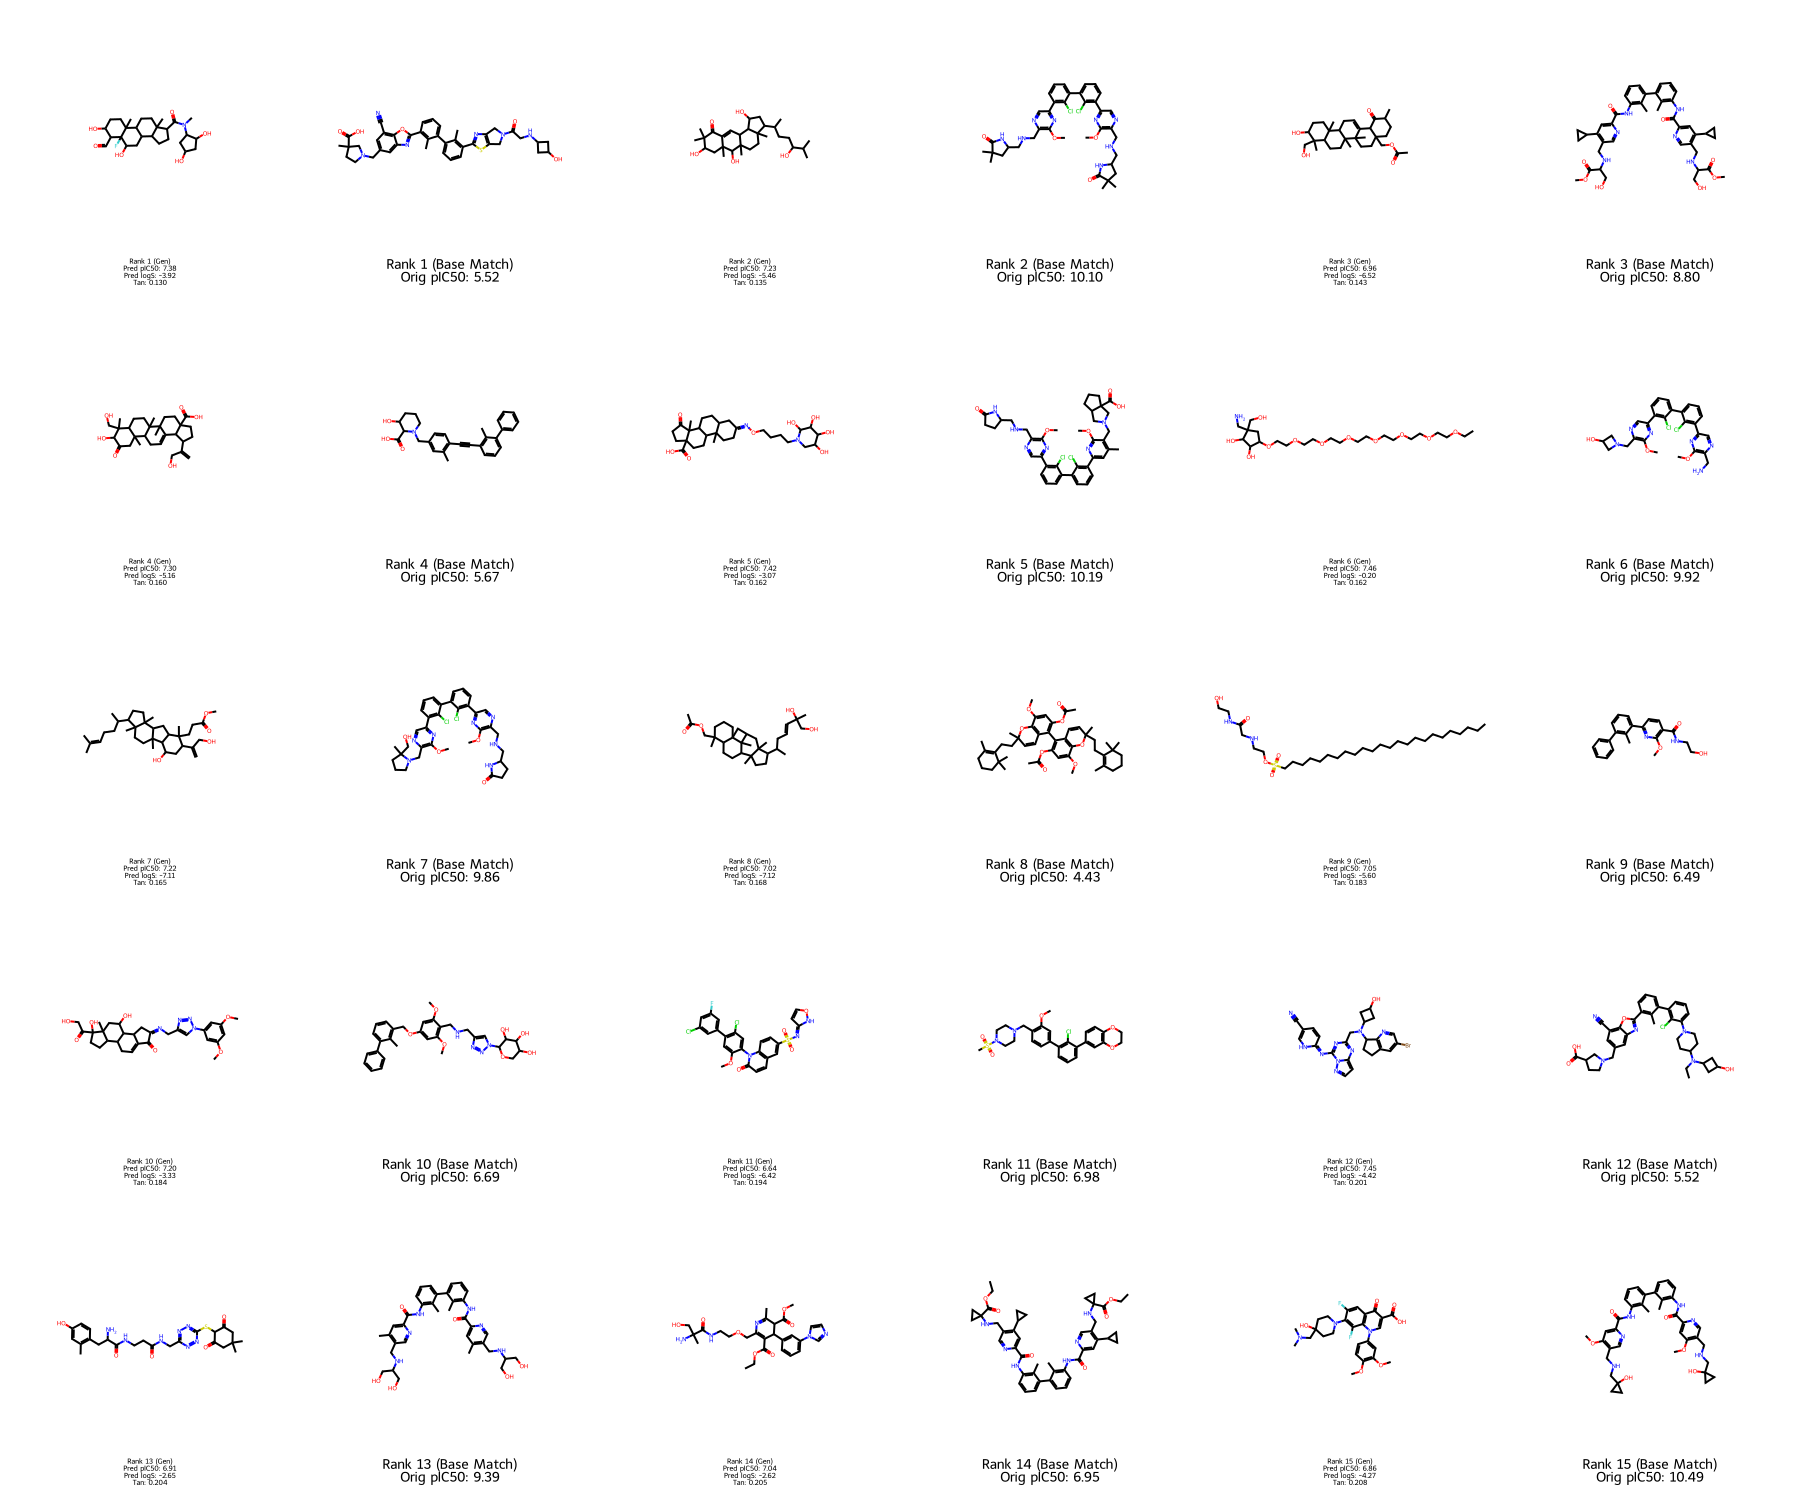
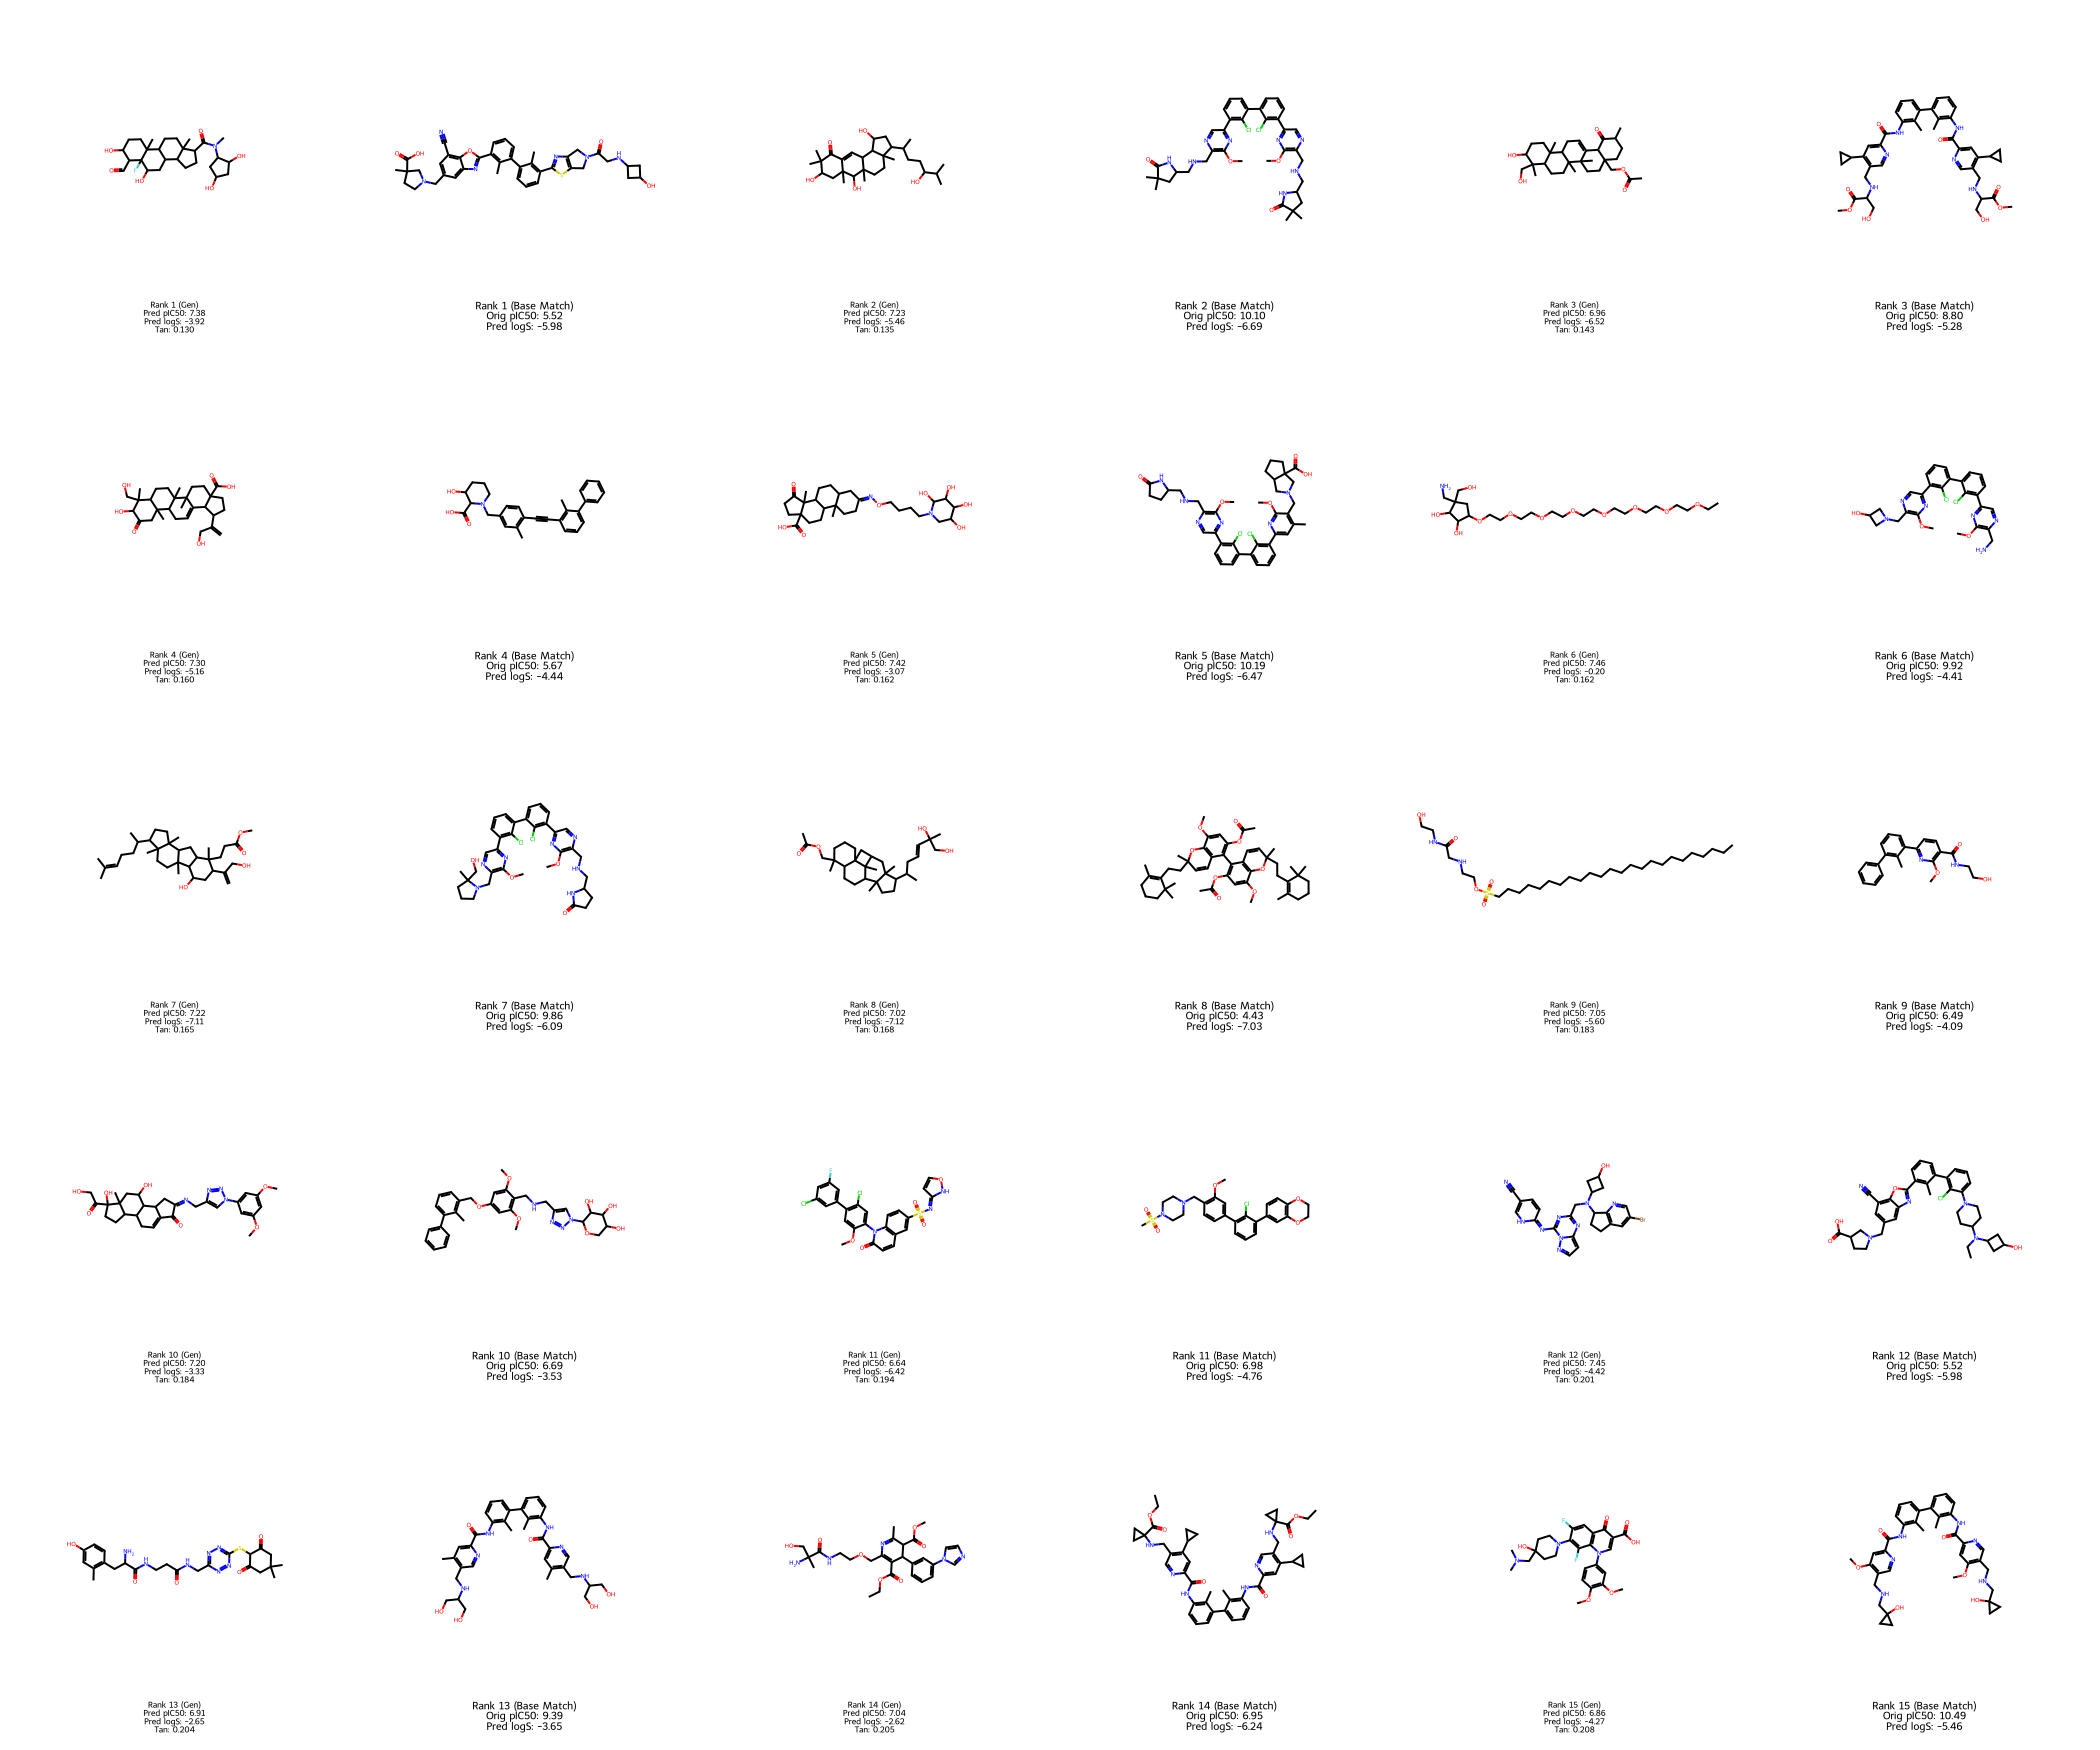
Update pair grids with larger legend font size and add predicted baseline solubilities to all 5 pair runs

diff --git a/Navneet_Git/get_top15_pairs.py b/Navneet_Git/get_top15_pairs.py
@@ -1,16 +1,29 @@
 import os
+import sys
 import pandas as pd
 import numpy as np
+import xgboost as xgb
 from rdkit import Chem, DataStructs
 from rdkit.Chem import AllChem, Draw
+
+# Load REINVENT features plugin
+sys.path.append('REINVENT4')
+from reinvent_plugins.components.pd1_pdl1_features import compute_features
 
 def main():
     repo = "/Users/vishnukasturi/Intern/reinvent-local"
     baseline_path = f"{repo}/Preprocess/Data_pd1_pdl1/pd1_pdl1_pic50_raw.csv"
+    sol_model_path = f"{repo}/Preprocess/final_acc/pd1_pdl1_sol_final_acc_model.ubj"
+    sol_scaler_path = f"{repo}/Preprocess/final_acc/pd1_pdl1_sol_final_acc_scaler.pkl"
     
     print("[*] Loading baseline dataset...")
     df_base = pd.read_csv(baseline_path, sep='\t')
     df_base = df_base.dropna(subset=['SMILES'])
+    
+    # Load solubility predictor model
+    print("[*] Loading solubility model...")
+    bst_sol = xgb.Booster()
+    bst_sol.load_model(sol_model_path)
     
     base_mols = []
     base_fps = []
@@ -51,6 +64,35 @@ def main():
         print(f"\n[*] Processing top 15 dataset: {d['name']}")
         df = pd.read_csv(d['csv_path'])
         
+        # Determine baseline matches first
+        base_matched_smiles = []
+        for idx, (_, row) in enumerate(df.iterrows()):
+            gen_smi = row['canonical_smiles']
+            gen_m = Chem.MolFromSmiles(gen_smi)
+            if gen_m:
+                gen_fp = AllChem.GetMorganFingerprintAsBitVect(gen_m, 2, 2048)
+                sims = DataStructs.BulkTanimotoSimilarity(gen_fp, base_fps)
+                max_idx = np.argmax(sims)
+                base_matched_smiles.append(base_smiles[max_idx])
+            else:
+                base_matched_smiles.append("")
+                
+        # Predict solubility for matched baseline SMILES
+        valid_base_smiles = [s for s in base_matched_smiles if s != ""]
+        base_sols = {}
+        if valid_base_smiles:
+            X_s, m_s = compute_features(valid_base_smiles, sol_scaler_path)
+            preds_s = bst_sol.predict(xgb.DMatrix(X_s))
+            pred_idx = 0
+            for s in base_matched_smiles:
+                if s == "":
+                    continue
+                if m_s[pred_idx]:
+                    base_sols[s] = float(preds_s[pred_idx])
+                else:
+                    base_sols[s] = np.nan
+                pred_idx += 1
+
         pair_mols = []
         pair_legends = []
         pair_data = []
@@ -68,9 +110,10 @@ def main():
             max_idx = np.argmax(sims)
             max_tan = sims[max_idx]
             
-            base_smi = base_smiles[max_idx]
+            base_smi = base_matched_smiles[idx]
             base_m = Chem.MolFromSmiles(base_smi)
             base_pic50 = base_pic50s[max_idx]
+            base_sol = base_sols.get(base_smi, np.nan)
             
             # Record data for CSV
             pair_data.append({
@@ -82,7 +125,8 @@ def main():
                 "combined_score": row['combined_score'],
                 "tanimoto_similarity": max_tan,
                 "matched_baseline_smiles": base_smi,
-                "matched_baseline_original_pic50": base_pic50
+                "matched_baseline_original_pic50": base_pic50,
+                "matched_baseline_predicted_solubility": base_sol
             })
             
             # Prepare generated molecule coords and legend
@@ -102,12 +146,12 @@ def main():
                 AllChem.Compute2DCoords(base_m)
                 pair_mols.append(base_m)
             else:
-                # Fallback if mol generation fails
                 pair_mols.append(Chem.MolFromSmiles(""))
                 
             base_legend = (
                 f"Rank {idx+1} (Base Match)\n"
-                f"Orig pIC50: {base_pic50:.2f}"
+                f"Orig pIC50: {base_pic50:.2f}\n"
+                f"Pred logS: {base_sol:.2f}"
             )
             pair_legends.append(base_legend)
             
@@ -121,13 +165,18 @@ def main():
         df_pairs.to_csv(d['brain_csv'], index=False)
         print(f"[+] Saved pair CSV to {d['brain_csv']}")
             
+        # Configure drawing options (increased legend font size)
+        dopts = Draw.rdMolDraw2D.MolDrawOptions()
+        dopts.legendFontSize = 22
+        
         # Draw grid image (3 pairs per row -> 6 columns, 5 rows)
         img = Draw.MolsToGridImage(
             pair_mols,
             molsPerRow=6,
-            subImgSize=(300, 300),
+            subImgSize=(350, 350),
             legends=pair_legends,
-            useSVG=False
+            useSVG=False,
+            drawOptions=dopts
         )
         
         img.save(d['out_png'])

diff --git a/Navneet_Git/get_novel_pairs.py b/Navneet_Git/get_novel_pairs.py
@@ -1,16 +1,29 @@
 import os
+import sys
 import pandas as pd
 import numpy as np
+import xgboost as xgb
 from rdkit import Chem, DataStructs
 from rdkit.Chem import AllChem, Draw
+
+# Load REINVENT features plugin
+sys.path.append('REINVENT4')
+from reinvent_plugins.components.pd1_pdl1_features import compute_features
 
 def main():
     repo = "/Users/vishnukasturi/Intern/reinvent-local"
     baseline_path = f"{repo}/Preprocess/Data_pd1_pdl1/pd1_pdl1_pic50_raw.csv"
+    sol_model_path = f"{repo}/Preprocess/final_acc/pd1_pdl1_sol_final_acc_model.ubj"
+    sol_scaler_path = f"{repo}/Preprocess/final_acc/pd1_pdl1_sol_final_acc_scaler.pkl"
     
     print("[*] Loading baseline dataset...")
     df_base = pd.read_csv(baseline_path, sep='\t')
     df_base = df_base.dropna(subset=['SMILES'])
+    
+    # Load solubility predictor model
+    print("[*] Loading solubility model...")
+    bst_sol = xgb.Booster()
+    bst_sol.load_model(sol_model_path)
     
     base_mols = []
     base_fps = []
@@ -73,6 +86,35 @@ def main():
             
         df = pd.read_csv(d['csv_path'])
         
+        # Determine baseline matches first
+        base_matched_smiles = []
+        for idx, (_, row) in enumerate(df.iterrows()):
+            gen_smi = row['SMILES']
+            gen_m = Chem.MolFromSmiles(gen_smi)
+            if gen_m:
+                gen_fp = AllChem.GetMorganFingerprintAsBitVect(gen_m, 2, 2048)
+                sims = DataStructs.BulkTanimotoSimilarity(gen_fp, base_fps)
+                max_idx = np.argmax(sims)
+                base_matched_smiles.append(base_smiles[max_idx])
+            else:
+                base_matched_smiles.append("")
+                
+        # Predict solubility for matched baseline SMILES
+        valid_base_smiles = [s for s in base_matched_smiles if s != ""]
+        base_sols = {}
+        if valid_base_smiles:
+            X_s, m_s = compute_features(valid_base_smiles, sol_scaler_path)
+            preds_s = bst_sol.predict(xgb.DMatrix(X_s))
+            pred_idx = 0
+            for s in base_matched_smiles:
+                if s == "":
+                    continue
+                if m_s[pred_idx]:
+                    base_sols[s] = float(preds_s[pred_idx])
+                else:
+                    base_sols[s] = np.nan
+                pred_idx += 1
+
         pair_mols = []
         pair_legends = []
         pair_data = []
@@ -90,9 +132,10 @@ def main():
             max_idx = np.argmax(sims)
             max_tan = sims[max_idx]
             
-            base_smi = base_smiles[max_idx]
+            base_smi = base_matched_smiles[idx]
             base_m = Chem.MolFromSmiles(base_smi)
             base_pic50 = base_pic50s[max_idx]
+            base_sol = base_sols.get(base_smi, np.nan)
             
             # Record data for CSV
             pair_data.append({
@@ -104,7 +147,8 @@ def main():
                 "docking_score": row['DockingScore'],
                 "tanimoto_similarity": max_tan,
                 "matched_baseline_smiles": base_smi,
-                "matched_baseline_original_pic50": base_pic50
+                "matched_baseline_original_pic50": base_pic50,
+                "matched_baseline_predicted_solubility": base_sol
             })
             
             # Prepare generated molecule coords and legend
@@ -128,7 +172,8 @@ def main():
                 
             base_legend = (
                 f"Rank {idx+1} (Base Match)\n"
-                f"Orig pIC50: {base_pic50:.2f}"
+                f"Orig pIC50: {base_pic50:.2f}\n"
+                f"Pred logS: {base_sol:.2f}"
             )
             pair_legends.append(base_legend)
             
@@ -141,13 +186,18 @@ def main():
         os.makedirs(os.path.dirname(d['brain_csv']), exist_ok=True)
         df_pairs.to_csv(d['brain_csv'], index=False)
         
+        # Configure drawing options (increased legend font size)
+        dopts = Draw.rdMolDraw2D.MolDrawOptions()
+        dopts.legendFontSize = 22
+        
         # Draw grid image (3 pairs per row -> 6 columns, 5 rows)
         img = Draw.MolsToGridImage(
             pair_mols,
             molsPerRow=6,
-            subImgSize=(300, 300),
+            subImgSize=(350, 350),
             legends=pair_legends,
-            useSVG=False
+            useSVG=False,
+            drawOptions=dopts
         )
         
         img.save(d['out_png'])
